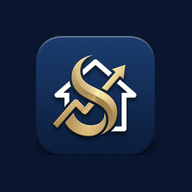
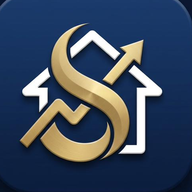
Add files via upload
improve function with opus 4.8

diff --git a/index.html b/index.html
@@ -313,13 +313,23 @@ body{font-family:'Vazirmatn',-apple-system,sans-serif;color:var(--t1);min-height
 
   <!-- Dashboard: unified professional layout -->
 
-  <!-- Date strip -->
+  <!-- Net worth hero + date -->
   <div style="padding:12px 14px 0">
-    <div style="background:var(--card);border-radius:var(--rads);box-shadow:var(--sh);padding:11px 16px;display:flex;align-items:center;gap:10px">
-      <span style="width:36px;height:36px;border-radius:11px;background:linear-gradient(145deg,#4A90D9,#1456A8);display:flex;align-items:center;justify-content:center;flex-shrink:0">
-        <svg viewBox="0 0 24 24" style="width:18px;height:18px;stroke:#fff;stroke-width:2;fill:none;stroke-linecap:round"><rect x="3" y="4" width="18" height="18" rx="3"/><path d="M16 2v4M8 2v4M3 10h18"/></svg>
-      </span>
-      <div id="td" style="font-size:13px;font-weight:700;color:var(--t1)"></div>
+    <div style="background:var(--grad);border-radius:var(--rad);box-shadow:var(--shc);padding:17px 18px 15px;color:#fff;position:relative;overflow:hidden">
+      <div style="display:flex;justify-content:space-between;align-items:center;margin-bottom:9px">
+        <span style="font-size:12px;font-weight:600;opacity:.9;display:flex;align-items:center;gap:6px">
+          <svg viewBox="0 0 24 24" style="width:15px;height:15px;stroke:#fff;stroke-width:2;fill:none;stroke-linecap:round"><path d="M21 12V7H5a2 2 0 010-4h14v4"/><path d="M3 5v14a2 2 0 002 2h16v-5"/><path d="M18 12a2 2 0 000 4h4v-4z"/></svg>
+          خالص دارایی
+        </span>
+        <span id="td" style="font-size:10.5px;font-weight:600;opacity:.8"></span>
+      </div>
+      <div style="display:flex;align-items:baseline;gap:6px">
+        <span id="netWorth" style="font-size:30px;font-weight:800;line-height:1">۰</span>
+        <span style="font-size:13px;font-weight:600;opacity:.85">تومان</span>
+      </div>
+      <div id="netWorthHint" style="font-size:11px;opacity:.9;margin-top:9px;display:none;cursor:pointer" onclick="openAccList()">
+        برای محاسبهٔ دارایی، ابتدا حسابهایتان را ثبت کنید ←
+      </div>
     </div>
   </div>
 
@@ -1120,7 +1130,6 @@ function def(){
         {id:'e3',n:'سلامت و ورزش',i:'health',c:'#993556'},
         {id:'e4',n:'باغ و باغچه',i:'home',c:'#3B6D11'},
         {id:'e5',n:'خودرو',i:'car',c:'#534AB7'},
-        {id:'e6',n:'پس\u200cانداز',i:'piggy',c:'#1865C2'},
         {id:'e7',n:'متفرقه',i:'more',c:'#65728C'}
       ]
     },
@@ -1304,6 +1313,42 @@ function migrateState(s){
     });
   }
 
+  // ---- Savings → Transfer migration (one-time) ----
+  // Historically "پسانداز" (id e6) was an EXPENSE category, which wrongly inflated
+  // spending and hid saved money as if it were consumed. We now model saving as a
+  // transfer into a dedicated "پسانداز" account so it is excluded from expense totals
+  // and instead shows up as an asset in net worth.
+  if(!s.savingsV1){
+    if(!Array.isArray(s.accounts)) s.accounts=[];
+    if(!Array.isArray(s.tx)) s.tx=[];
+    const savTxs=s.tx.filter(t=>t.cat==='e6'&&t.tp==='expense'&&!t.isTransfer&&!t.isOpening);
+    if(savTxs.length){
+      let sav=s.accounts.find(a=>a.id===SAVINGS_ACC_ID);
+      if(!sav){
+        const t=today();
+        sav={id:SAVINGS_ACC_ID,bank:'پسانداز',name:'',accno:'',cardno:'',last4:'',exp:'',iban:'',
+             color:'#4A42B0',initDate:{d:t.d,m:t.m-1,y:t.y},initBalance:0,openTxId:null};
+        s.accounts.push(sav);
+      }
+      savTxs.forEach(t=>{
+        const tid=uid();
+        const note=t.dsc||'';
+        // original tx becomes the source (money-out) leg of the transfer
+        t.cat='transfer'; t.isTransfer=true; t.transferId=tid;
+        t.dsc='پسانداز'+(note?(' · '+note):'');
+        // paired money-in leg landing in the savings account
+        s.tx.push({id:uid(),tp:'income',cat:'transfer',a:t.a,
+          dsc:'پسانداز'+(note?(' · '+note):''),
+          day:t.day,m:t.m,y:t.y,accId:SAVINGS_ACC_ID,isTransfer:true,transferId:tid});
+      });
+    }
+    // drop the legacy پسانداز expense category so new savings go through «انتقال»
+    if(s.cats&&Array.isArray(s.cats.expense)){
+      s.cats.expense=s.cats.expense.filter(c=>c.id!=='e6');
+    }
+    s.savingsV1=true;
+  }
+
   return s;
 }
 
@@ -1325,8 +1370,11 @@ const BANK_STYLE={
   'بانک پاسارگاد':{c:'#5B3A29',t:'پاسارگاد'},
   'بانک مسکن':{c:'#8C6A3F',t:'مسکن'},
   'بانک رفاه':{c:'#00838F',t:'رفاه'},
-  'بانک رسالت':{c:'#00A99D',t:'رسالت'}
+  'بانک رسالت':{c:'#00A99D',t:'رسالت'},
+  'پسانداز':{c:'#4A42B0',t:'پسانداز'}
 };
+// Fixed id for the auto-created savings account (savings modeled as a transfer, not an expense)
+const SAVINGS_ACC_ID='sav_main';
 const BANK_LOGO={
   'بانک ملی':'bank-meli.png',
   'بانک ملت':'bank-mellat.png',
@@ -1374,6 +1422,8 @@ function annualCollected(tid,y){
   return s;
 }
 function totals(txs){let i=0,e=0;txs.forEach(t=>{if(t.isTransfer||t.isOpening)return;if(t.tp==='income')i+=t.a;else e+=t.a;});return{i,e,b:i-e};}
+// Net worth = sum of every account's current balance (opening balance + its own income/expense/transfer legs)
+function netWorth(){return (ST.accounts||[]).reduce((s,a)=>s+calcAccBalance(a.id),0);}
 
 // ============================================================
 // MONTH SELECTOR (pill in header corner)
@@ -1482,6 +1532,12 @@ function rDash(){
   const txs=getTx(SM);const{i,e,b}=totals(txs);
   document.getElementById('di').textContent=nf(i);
   document.getElementById('de').textContent=nf(e);
+  const nwEl=document.getElementById('netWorth');
+  const nwHint=document.getElementById('netWorthHint');
+  if(nwEl){
+    nwEl.textContent=nf(netWorth());
+    if(nwHint) nwHint.style.display=(ST.accounts&&ST.accounts.length)?'none':'block';
+  }
   const rentAlrtEl=document.getElementById('dash-rent-alrt');
   if(rentAlrtEl){
     const rs=unpaidRentSummary();
@@ -2461,6 +2517,25 @@ async function clearPay(tid,y,m){
 // ============================================================
 // REPORTS
 // ============================================================
+// Number of rent-due months for a tenant within Jalali year y, counted only up to
+// the current month (so mid-year tenants aren't unfairly shown as under-collected).
+// Mirrors the start-date logic used in unpaidRentSummary/chkDue: first rent is the
+// month AFTER the contract start month.
+function expectedRentMonths(ten,y){
+  const t=today();
+  const startM=ten.start_m!==undefined?ten.start_m:0;
+  const firstRentM=(startM+1)%12;
+  const firstRentY=(ten.start_y||t.y)+(startM+1>11?1:0);
+  let startIdx;
+  if(firstRentY<y) startIdx=0;
+  else if(firstRentY===y) startIdx=firstRentM;
+  else return 0;                 // rent starts after year y
+  let endIdx;
+  if(y<t.y) endIdx=11;
+  else if(y===t.y) endIdx=t.m-1; // up to current month only
+  else return 0;                 // future year
+  return Math.max(0,endIdx-startIdx+1);
+}
 function rPropTable(){
   const card=document.getElementById('propCard');
   const box=document.getElementById('propTbl');
@@ -2469,18 +2544,32 @@ function rPropTable(){
   const y=SY;
   box.innerHTML=ST.ten.map(ten=>{
     const collected=annualCollected(ten.id,y);
-    const expected=ten.rent*12;
-    const growth=expected>0?Math.round((collected/expected)*100):0;
-    const yieldPct=ten.val>0?((collected/ten.val)*100).toFixed(1):null;
+    const months=expectedRentMonths(ten,y);
+    const expected=(ten.rent||0)*months;
+    const started=months>0;
+    const growth=expected>0?Math.round((collected/expected)*100):(collected>0?100:0);
+    // Gross annual yield uses the CONTRACT rent (rent×12), not partial collections.
+    const grossYield=ten.val>0?((ten.rent*12/ten.val)*100).toFixed(1):null;
+    // Effective yield adjusts for the deposit (interest-free capital that reduces the
+    // owner's own money tied up in the property) — meaningful in Iran's رهنواجاره market.
+    const effYield=(ten.val>0&&ten.dep>0&&ten.val>ten.dep)?((ten.rent*12/(ten.val-ten.dep))*100).toFixed(1):null;
     const gColor=growth>=90?'var(--gr)':growth>=50?'var(--am)':'var(--rd)';
+    const rightBadge=started?`<span class="rv" style="color:${gColor};font-size:13px">${toFa(growth)}٪ وصولی</span>`
+                             :`<span class="rv" style="color:var(--t3);font-size:12px">اجاره شروع نشده</span>`;
+    const collectedLine=started?`دریافتی ${toFa(y)}: ${nf(collected)} از ${nf(expected)} ت (${toFa(months)} ماه)`
+                               :`اجاره در سال ${toFa(y)} هنوز آغاز نشده`;
+    let yieldLine;
+    if(grossYield===null){ yieldLine='بازدهی: ارزش ملک ثبت نشده'; }
+    else if(effYield!==null){ yieldLine=`بازدهی ناخالص ${toFa(grossYield)}٪ · مؤثر ${toFa(effYield)}٪`; }
+    else { yieldLine=`بازدهی ناخالص سالانه: ${toFa(grossYield)}٪`; }
     return `<div class="rrow" style="align-items:flex-start;flex-direction:column;gap:6px;padding:12px 0">
       <div style="display:flex;justify-content:space-between;width:100%;align-items:center">
         <span class="rlb" style="font-weight:700;color:var(--t1)">${esc(ten.n)} <span style="font-weight:500;color:var(--t3)">· ${esc(ten.unit)}</span></span>
-        <span class="rv" style="color:${gColor};font-size:13px">${toFa(growth)}٪ وصولی</span>
+        ${rightBadge}
       </div>
-      <div style="display:flex;justify-content:space-between;width:100%;font-size:12px;color:var(--t2)">
-        <span>دریافتی ${toFa(y)}: ${nf(collected)} ت از ${nf(expected)} ت</span>
-        <span>${yieldPct!==null?'بازدهی سالانه: '+toFa(yieldPct)+'٪':'بازدهی: ارزش ملک ثبت نشده'}</span>
+      <div style="display:flex;justify-content:space-between;width:100%;font-size:12px;color:var(--t2);gap:8px;flex-wrap:wrap">
+        <span>${collectedLine}</span>
+        <span style="text-align:left">${yieldLine}</span>
       </div>
     </div>`;
   }).join('');